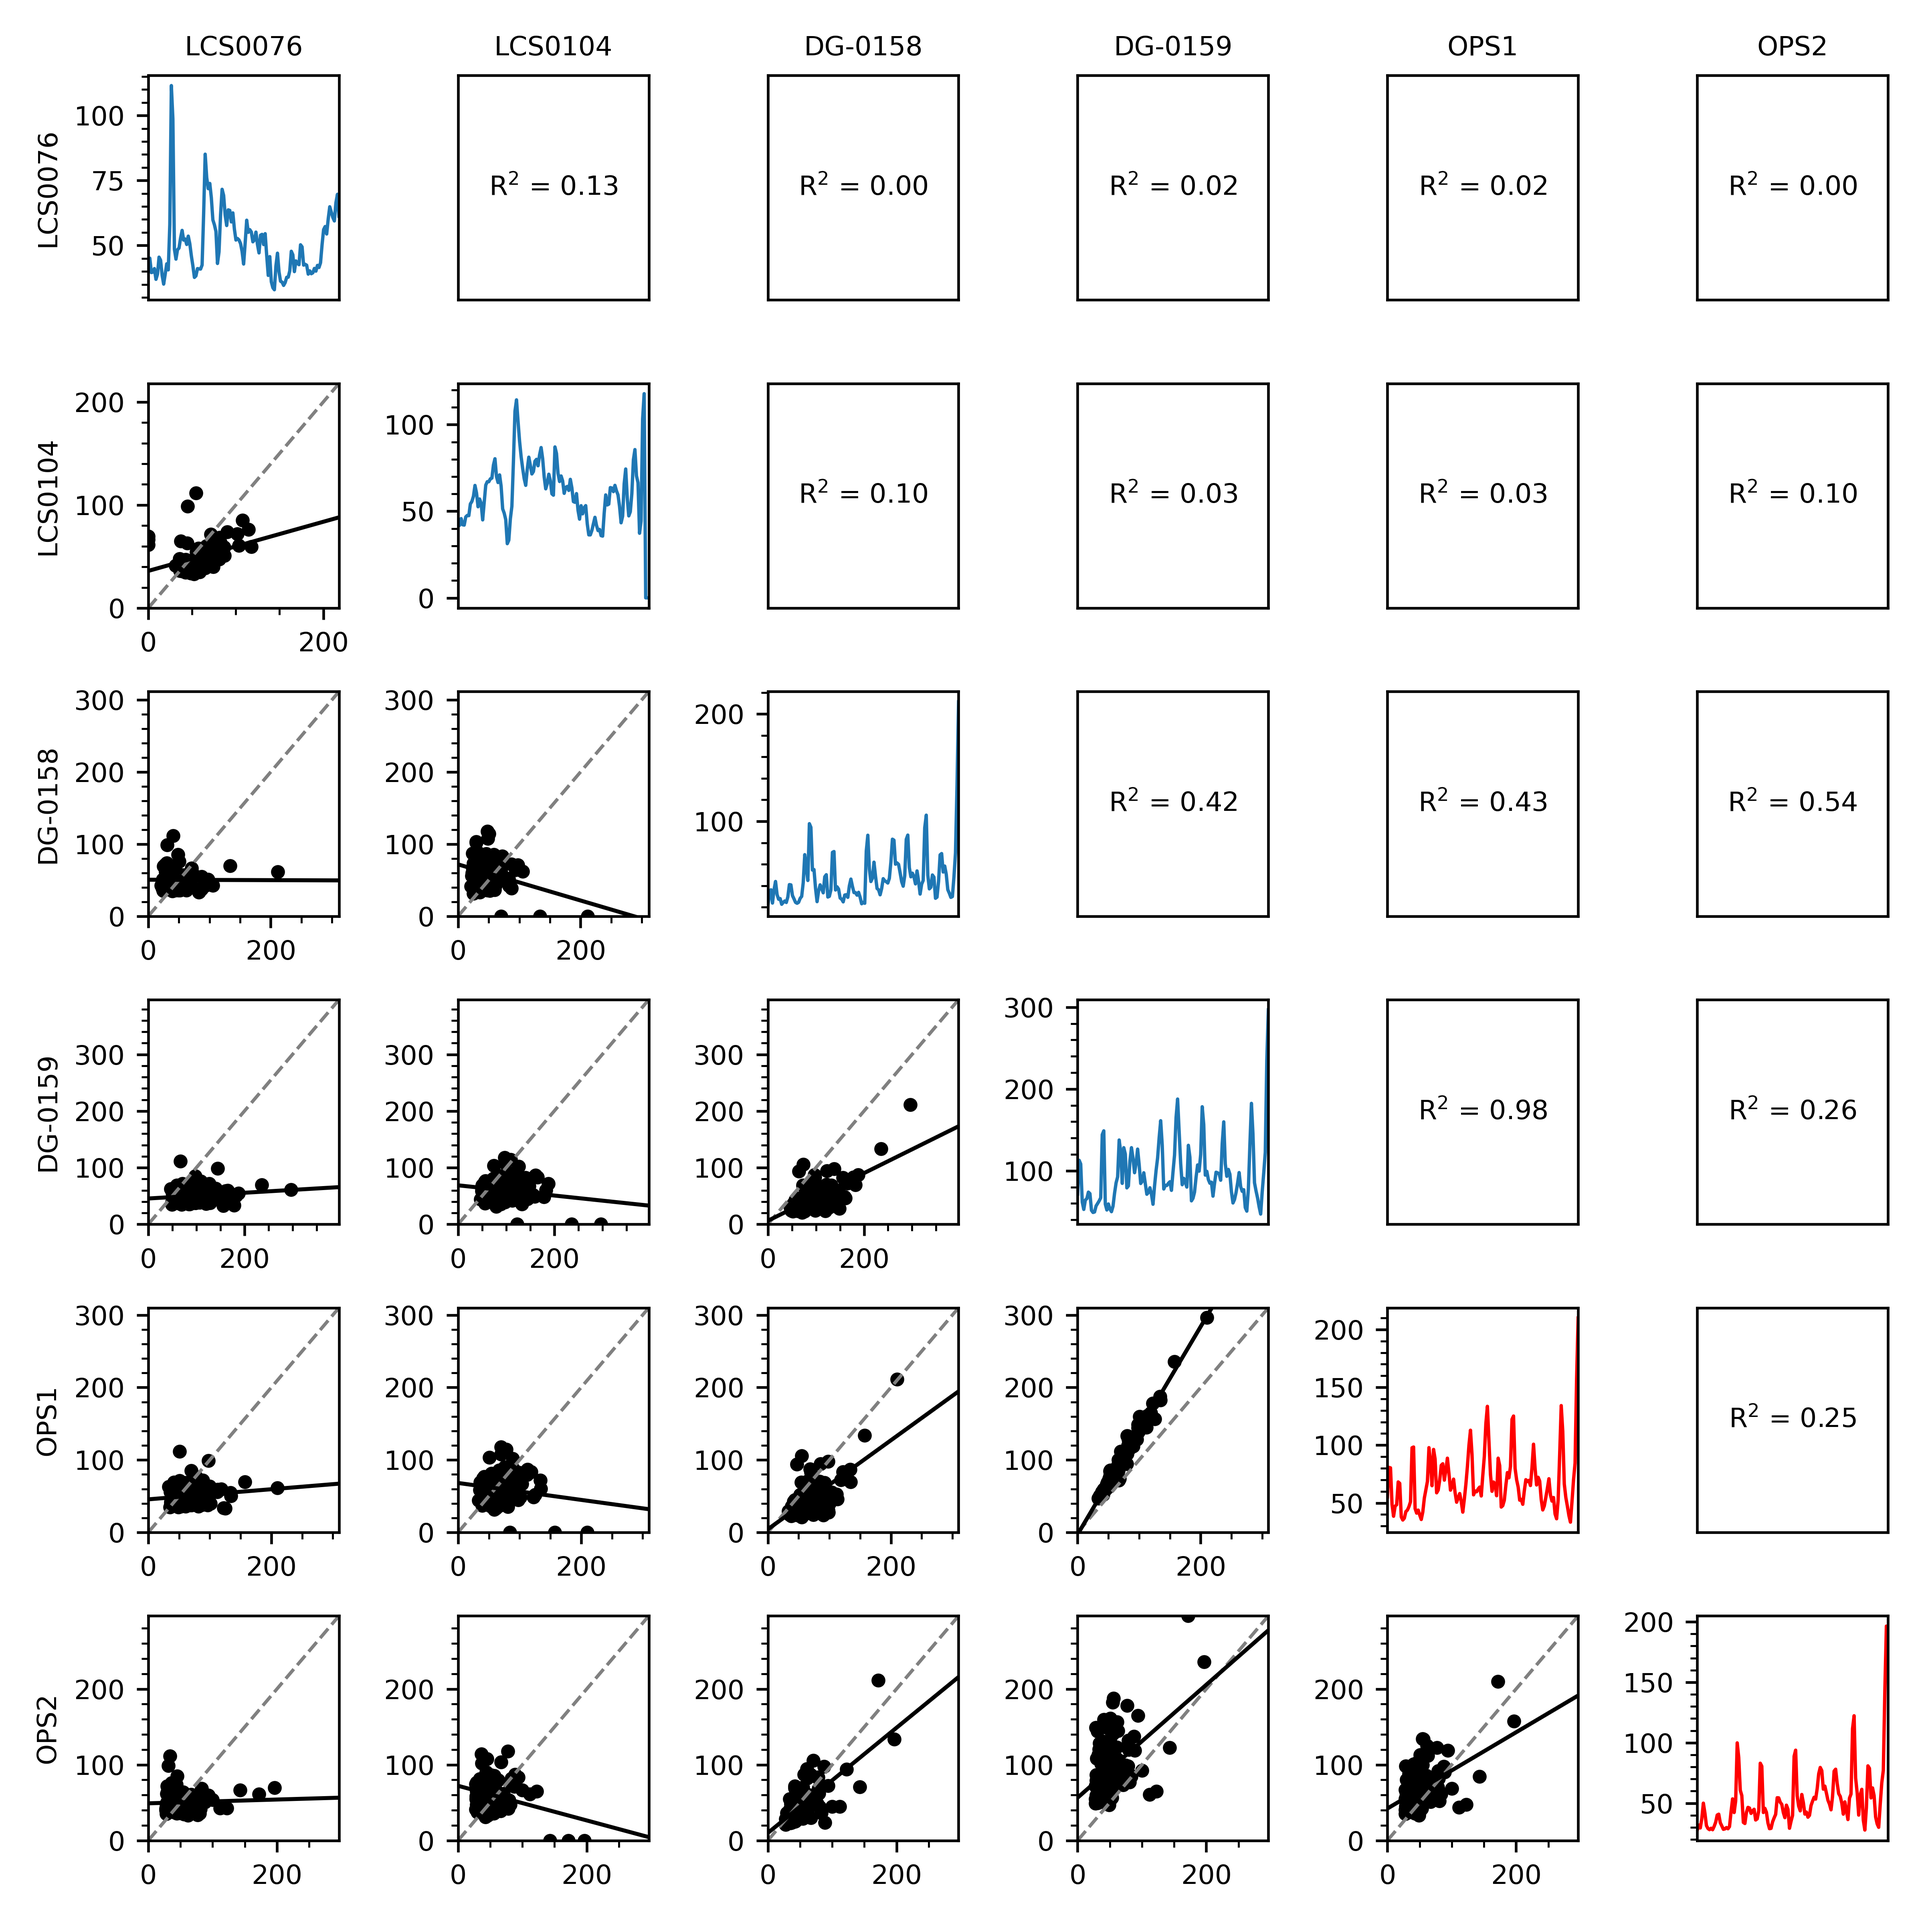
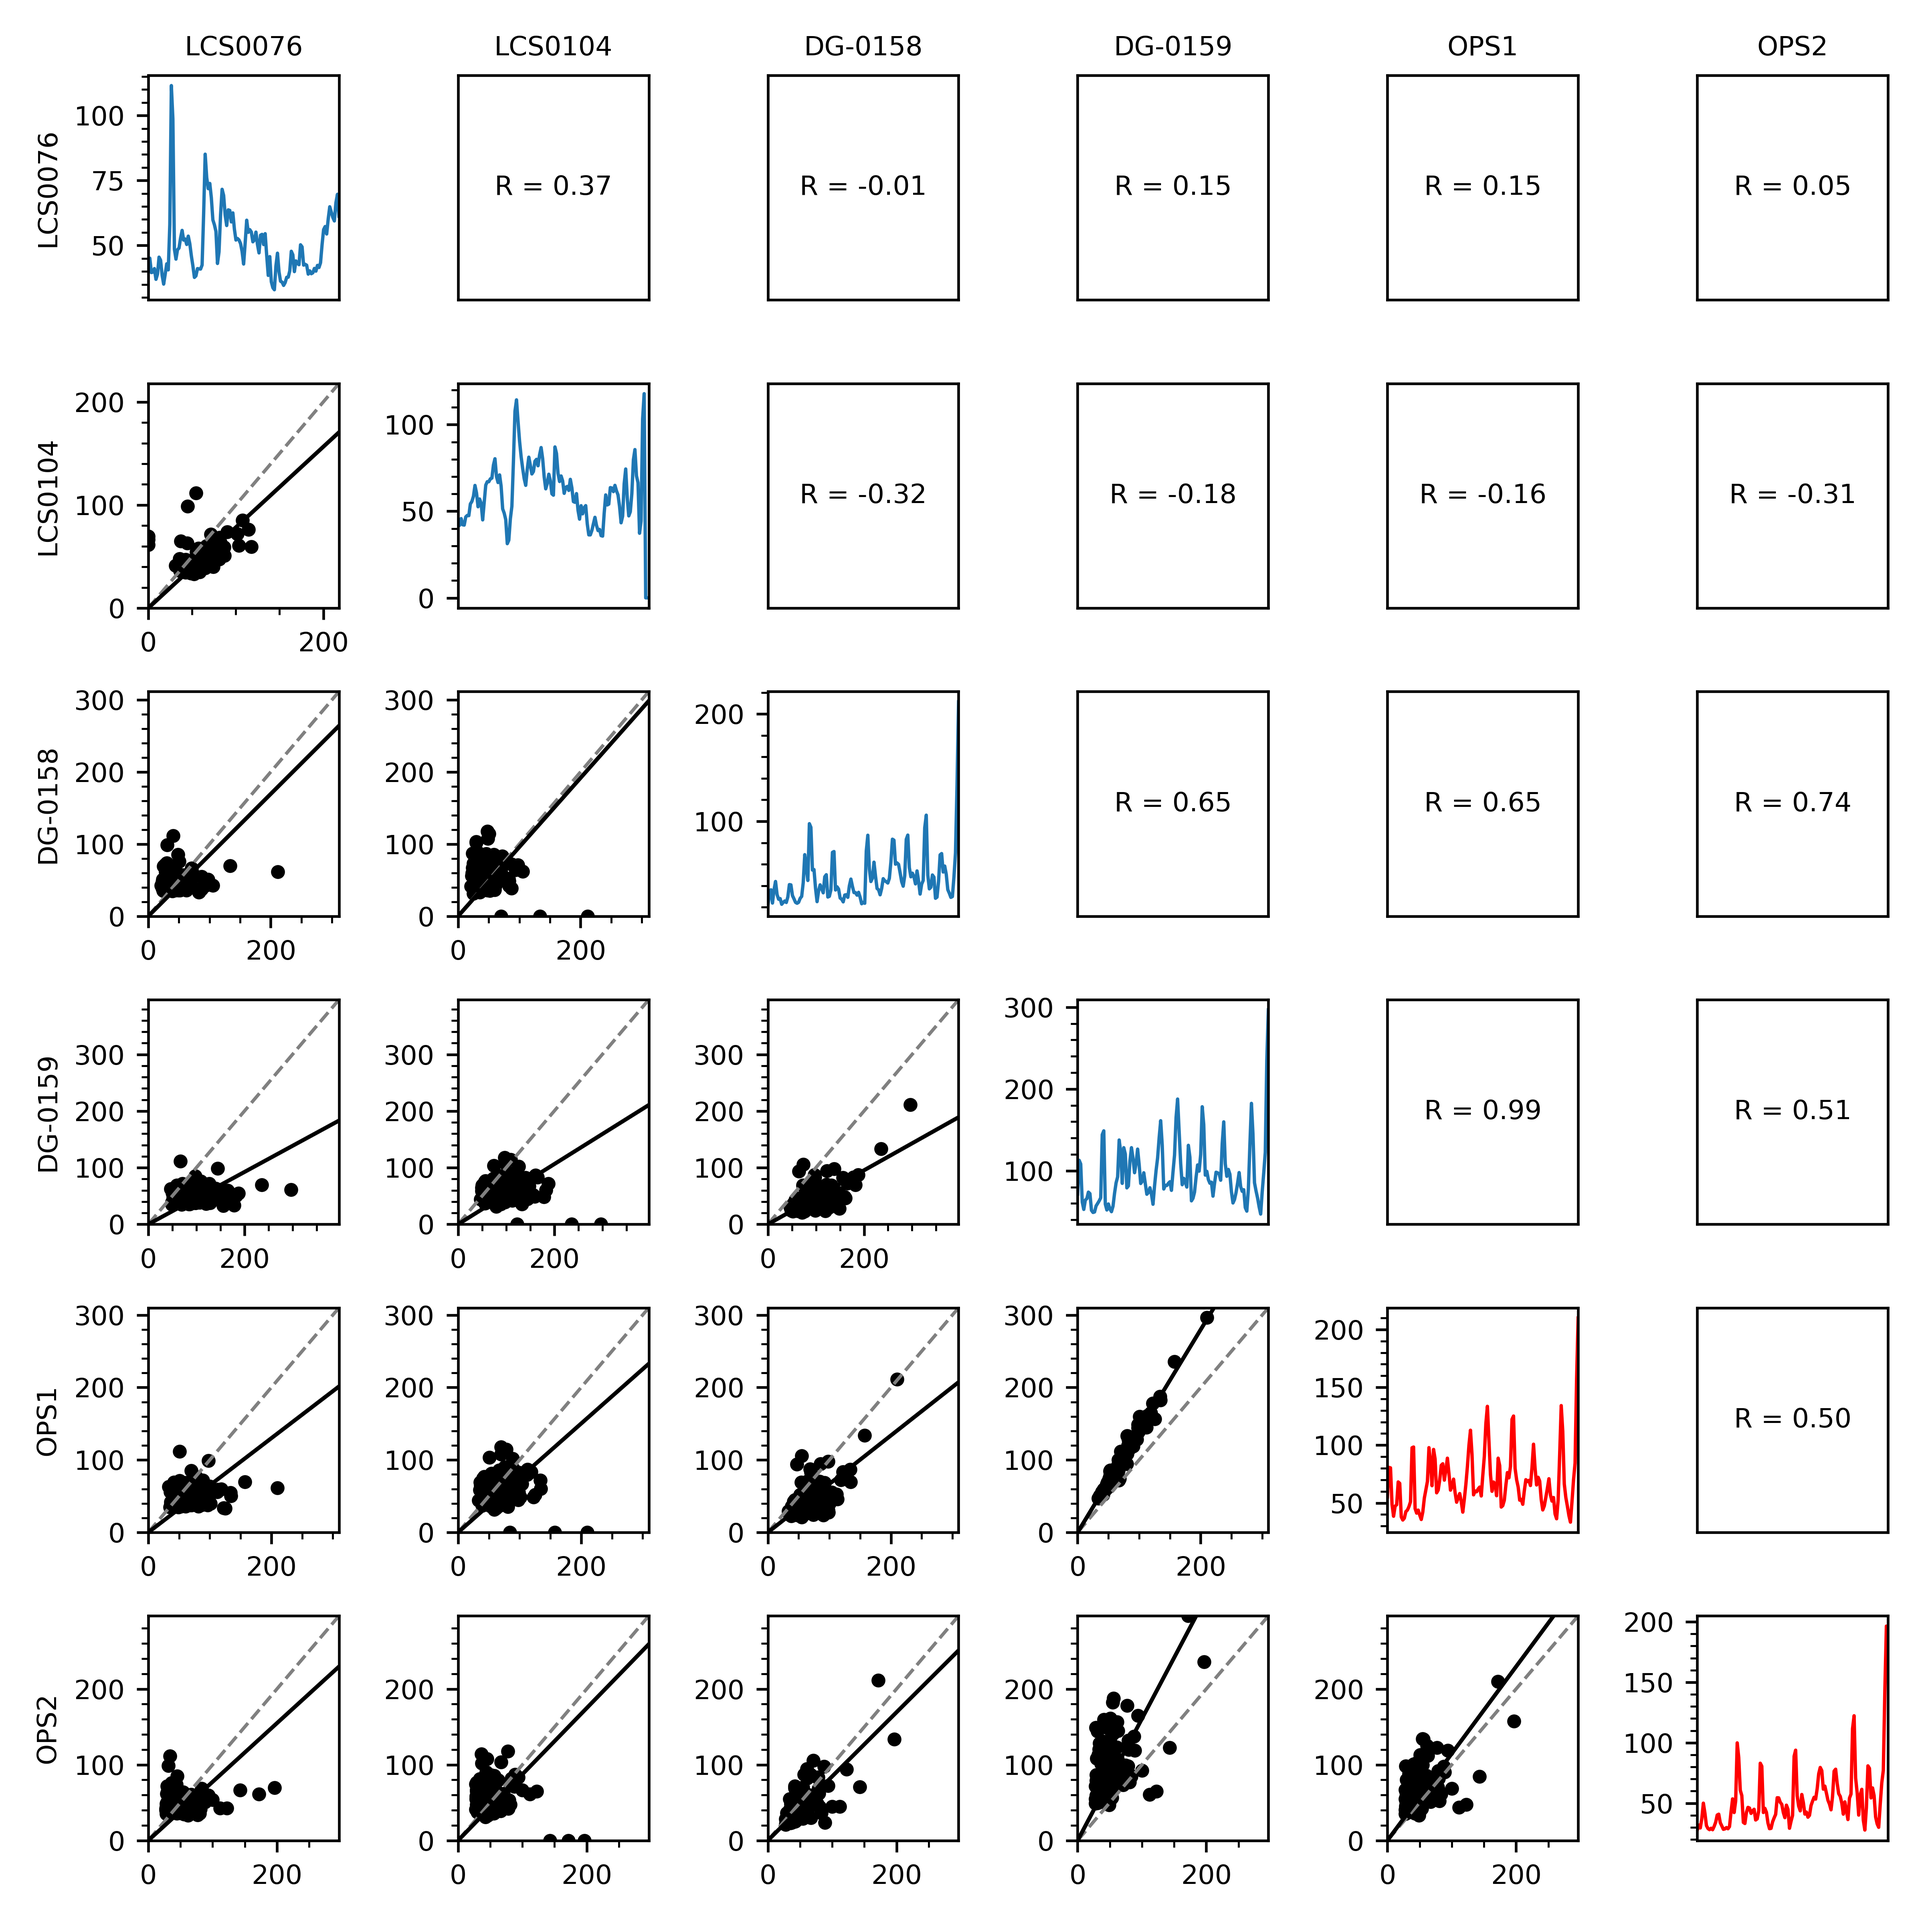
Update

diff --git a/plot_functions.py b/plot_functions.py
@@ -552,12 +552,12 @@ def plot_running_mean(fig, ax, df, bins, bin_edges, axis_labels, run_length, bac
         ax.tick_params(axis='both', labelsize=8)
         ax.set(xlabel=axis_labels[0], ylabel=axis_labels[1], xscale='log')
 
-def plot_reference(ax, x_plot, data, keys, labels):
+def plot_reference(ax, x_plot, data, keys, labels, forced_zero):
     if labels == None:
         # Plot a scatter plot of the two concentrations
         ax.plot(x_plot, x_plot, color = 'grey', lw = 1, ls = '--')
 
-        a, b, squares, ndof, R2 = linear_fit(data[keys[0]], data[keys[1]], 1, 0)
+        a, b, squares, ndof, R2 = linear_fit(data[keys[0]], data[keys[1]], 1, 0, forced_zero)
         y_fit = a*x_plot + b
 
         ax.plot(x_plot, y_fit, color = 'k', lw = 1.2)
@@ -568,7 +568,7 @@ def plot_reference(ax, x_plot, data, keys, labels):
         # Plot a scatter plot of the two concentrations
         ax.plot(x_plot, x_plot, color = 'grey', lw = 1, ls = '--')
 
-        a, b, squares, ndof, R2 = linear_fit(data[keys[0]], data[keys[1]], 1, 0)
+        a, b, squares, ndof, R2 = linear_fit(data[keys[0]], data[keys[1]], 1, 0, forced_zero)
         y_fit = a*x_plot + b
 
         ax.plot(x_plot, y_fit, label = 'Fit', color = 'k', lw = 1.2)
@@ -585,7 +585,7 @@ def plot_reference(ax, x_plot, data, keys, labels):
 
     return a, b, squares, ndof, R2
 
-def plot_reference_same(ax, data_dict, dict_keys, concentration, timelabel, x_plot, axis_labels):
+def plot_reference_same(ax, data_dict, dict_keys, concentration, timelabel, x_plot, axis_labels, forced_zero):
 
     new_dict = {}
     for key in dict_keys:
@@ -602,9 +602,9 @@ def plot_reference_same(ax, data_dict, dict_keys, concentration, timelabel, x_pl
         names.append(key.split('_')[0])
     merged = merged.dropna()
 
-    plot_reference(ax, x_plot, merged, dict_keys, axis_labels)
+    plot_reference(ax, x_plot, merged, dict_keys, axis_labels, forced_zero)
 
-def plot_reference_LCS(ax, data_dict, dict_keys, start_time, end_time, concentration, axis_labels):
+def plot_reference_LCS(ax, data_dict, dict_keys, start_time, end_time, concentration, axis_labels, forced_zero):
 
     # Convert start_time and end_time to datetime objects if they are strings
     start_time = pd.to_datetime(start_time)
@@ -630,9 +630,9 @@ def plot_reference_LCS(ax, data_dict, dict_keys, start_time, end_time, concentra
 
     x_plot = np.linspace(0, max(merged_df[dict_keys[0]]), 100)
     
-    plot_reference(ax, x_plot, merged_df, dict_keys, axis_labels)
+    plot_reference(ax, x_plot, merged_df, dict_keys, axis_labels, forced_zero)
 
-def instrument_comparison(ax, data, data_keys, ref_data, concentration, timelabel, x_plot, axis_labels, timestamps):
+def instrument_comparison(ax, data, data_keys, ref_data, concentration, timelabel, x_plot, axis_labels, timestamps, forced_zero):
     # Convert start_time and end_time to datetime objects if they are strings
     start_time = pd.to_datetime(timestamps[0])
     end_time = pd.to_datetime(timestamps[1])
@@ -655,7 +655,7 @@ def instrument_comparison(ax, data, data_keys, ref_data, concentration, timelabe
 
             merged = pd.merge(new_df, ref_df, on = timelabel[0], how = 'inner')
 
-            plot_reference(ax[i], x_plot, merged, ['Reference', key], axis_labels)
+            plot_reference(ax[i], x_plot, merged, ['Reference', key], axis_labels, forced_zero)
 
         if 'ma200' in key:
             time = pd.to_datetime(data[key][timelabel[0]]).round('60s')
@@ -664,7 +664,7 @@ def instrument_comparison(ax, data, data_keys, ref_data, concentration, timelabe
 
             merged = pd.merge(new_df, ref_df, on = timelabel[0], how = 'inner')
 
-            plot_reference(ax[i], x_plot, merged, ['Reference', key], axis_labels)
+            plot_reference(ax[i], x_plot, merged, ['Reference', key], axis_labels, forced_zero)
         
         if 'dm' not in key:
             if 'ma200' not in key:
@@ -681,16 +681,15 @@ def instrument_comparison(ax, data, data_keys, ref_data, concentration, timelabe
                 
                 merged = pd.merge(new_df, ref_df, on = timelabel[0], how = 'inner')
 
-                plot_reference(ax[i], x_plot, merged, ['Reference', key], axis_labels)
+                plot_reference(ax[i], x_plot, merged, ['Reference', key], axis_labels, forced_zero)
 
-def LCS_calibration_plot(plotz, figsize, df):
+def LCS_calibration_plot(plotz, figsize, df, forced_zero):
     
     Conc_keys = df.keys()[1::2].to_list()
     Time_keys = df.keys()[::2].to_list()
 
     a_list = []
-    b_list = []
-    R2_list = []
+    R_list = []
 
     fig, ax = plt.subplots(plotz-1, plotz-1,figsize=figsize)
     for i in range(plotz):
@@ -716,17 +715,16 @@ def LCS_calibration_plot(plotz, figsize, df):
 
                     x_plot = np.linspace(0, max(df[Conc_keys[i-1]]) + 100)
                     
-                    a, b, squares, ndof, R2 = plot_reference(ax[i-1][j], x_plot, df, [Conc_keys[i-1], Conc_keys[j]], None)
+                    a, b, squares, ndof, R = plot_reference(ax[i-1][j], x_plot, df, [Conc_keys[i-1], Conc_keys[j]], None, forced_zero)
                     ax[i-1][j].set(xlim = (x_plot[0], x_plot[-1]), ylim = (x_plot[0], x_plot[-1]))
                     if 'OPS' in Conc_keys[i-1]:
                         a_list.append(a)
-                        b_list.append(b)
-                        R2_list.append(R2)
+                        R_list.append(R)
 
                     ax[j][i-1].plot(np.linspace(0, 20, 10), np.zeros(10), color = 'k', lw = '0.1')
                     ax[j][i-1].xaxis.set_ticks([])
                     ax[j][i-1].yaxis.set_ticks([])
-                    ax[j][i-1].text(10,10,f'R$^{2}$ = {R2:.2f}', ha = 'center', va = 'center', fontsize = 8)
+                    ax[j][i-1].text(10,10,f'R = {R:.2f}', ha = 'center', va = 'center', fontsize = 8)
                     ax[j][i-1].set_ylim(0, 20)
 
-    return fig, a_list, b_list, R2_list
+    return fig, a_list, R_list

diff --git a/calculations.py b/calculations.py
@@ -108,66 +108,70 @@ def mean_conc_LCS(data, dict_keys, timelabel, date, timestamps, concentration, p
 
     return mean_df
 
-def linear_fit(x, y, a_guess, b_guess):
+def linear_fit(x, y, a_guess, b_guess, forced_zero):
 
     Npoints = len(y)
+    x, y = np.array(x), np.array(y)
 
-    def fit_func(x, a, b):
-        return b + (a * x)
+    if forced_zero:
+        def fit_func(x, a):
+            return (a * x)
+        
+        def least_squares(a) :
+            y_fit = fit_func(x, a)
+            squares = np.sum((y - y_fit)**2)
+            return squares
+        
+        least_squares.errordef = 1.0    # Chi2 definition (for Minuit)
 
-    def least_squares(a, b) :
-        y_fit = fit_func(x, a, b)
-        squares = np.sum((y - y_fit)**2)
-        return squares
-    least_squares.errordef = 1.0    # Chi2 definition (for Minuit)
+        # Here we let Minuit know, what to minimise, how, and with what starting parameters:   
+        minuit = Minuit(least_squares, a = a_guess)
 
-    # Here we let Minuit know, what to minimise, how, and with what starting parameters:   
-    minuit = Minuit(least_squares, a = a_guess, b = b_guess)
+        # Perform the actual fit:
+        minuit.migrad();
 
-    # Perform the actual fit:
-    minuit.migrad();
+        # Extract the fitting parameters:
+        a_fit = minuit.values['a']
 
-    # Extract the fitting parameters:
-    a_fit = minuit.values['a']
-    b_fit = minuit.values['b']
+        Nvar = 1                     # Number of variables 
+        Ndof_fit = Npoints - Nvar    # Number of degrees of freedom = Number of data points - Number of variables
 
-    Nvar = 2                     # Number of variables 
-    Ndof_fit = Npoints - Nvar    # Number of degrees of freedom = Number of data points - Number of variables
+        b_fit = 0
+        
+    else:
+        def fit_func(x, a, b):
+            return b + (a * x)
+        
+        def least_squares(a, b) :
+            y_fit = fit_func(x, a, b)
+            squares = np.sum((y - y_fit)**2)
+            return squares
+
+        least_squares.errordef = 1.0    # Chi2 definition (for Minuit)
+
+        # Here we let Minuit know, what to minimise, how, and with what starting parameters:   
+        minuit = Minuit(least_squares, a = a_guess, b = b_guess)
+
+        # Perform the actual fit:
+        minuit.migrad();
+
+        # Extract the fitting parameters:
+        a_fit = minuit.values['a']
+        b_fit = minuit.values['b']
+
+        Nvar = 2                     # Number of variables 
+        Ndof_fit = Npoints - Nvar    # Number of degrees of freedom = Number of data points - Number of variables
 
     # Get the minimal value obtained for the quantity to be minimised (here the Chi2)
     squares_fit = minuit.fval                          # The chi2 value
 
     # Calculate R2
-    def simple_model(b):
-        return b
+    R = (Npoints * np.sum(x * y) - np.sum(x) * np.sum(y)) / (np.sqrt(Npoints * np.sum(x**2) - (np.sum(x))**2)*np.sqrt(Npoints * np.sum(y**2) - (np.sum(y))**2))
 
-    def least_squares_simple(b) :
-        y_fit = simple_model(b)
-        squares = np.sum((y - y_fit)**2)
-        return squares
-    least_squares_simple.errordef = 1.0    # Chi2 definition (for Minuit)
-
-    # Here we let Minuit know, what to minimise, how, and with what starting parameters:   
-    minuit_simple = Minuit(least_squares_simple, b = b_guess)
-
-    # Perform the actual fit:
-    minuit_simple.migrad();
-
-    # Get the minimal value obtained for the quantity to be minimised (here the Chi2)
-    squares_simple = minuit_simple.fval                          # The chi2 value
-    if squares_simple == 0:
-        R2 = 'R2 not available'
-
-            # Print the fitted parameters
-        print(f"Fit: a={a_fit:6.6f}  b={b_fit:5.3f}  {R2}")
-
-    if squares_simple != 0:
-        R2 = 1 - (squares_fit / squares_simple)
-
-        # Print the fitted parameters
-        print(f"Fit: a={a_fit:6.6f}  b={b_fit:5.3f}  R2={R2:6.6f}")
+    # Print the fitted parameters
+    print(f"Fit: a={a_fit:6.6f}  b={b_fit:5.3f}  R={R:6.6f}")
     
-    return a_fit, b_fit, squares_fit, Ndof_fit, R2
+    return a_fit, b_fit, squares_fit, Ndof_fit, R
 
 def running_mean(df, dictkey, concentration, timelabel, interval, wndw, timestamps):
     # Set 'Time' as the index
